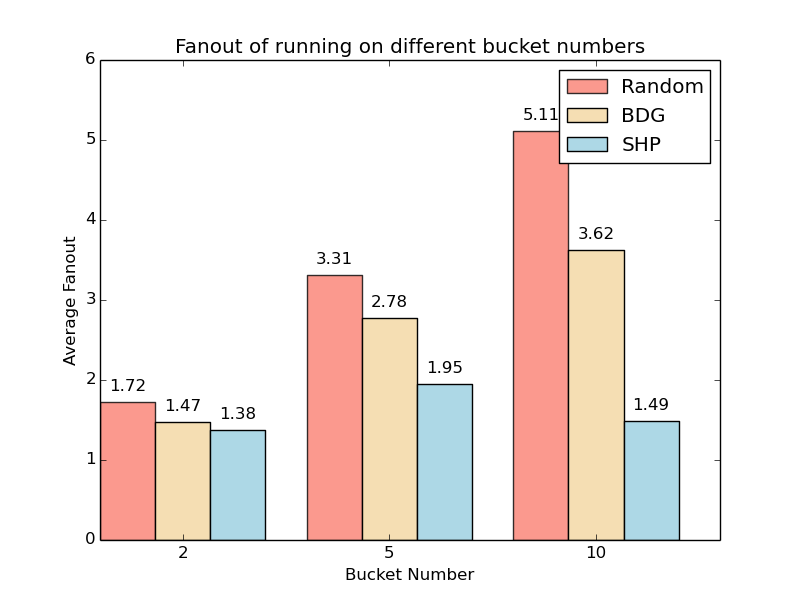
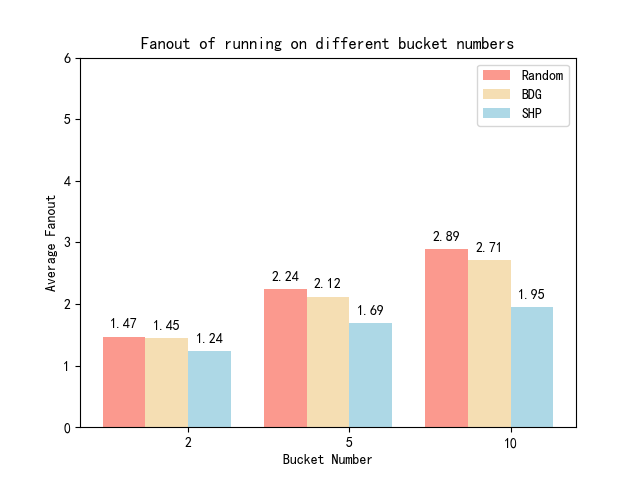
update pic

diff --git a/src/others/BarGraph.py b/src/others/BarGraph.py
@@ -4,9 +4,9 @@ matplotlib.rcParams['font.sans-serif'] = ['SimHei']
 matplotlib.rcParams['axes.unicode_minus'] = False
 
 label_list = ['2', '5', '10']
-num_list1 = [1.72, 3.31, 5.11]
-num_list2 = [1.47, 2.78, 3.62]
-num_list3 = [1.38, 1.95, 1.49]
+num_list1 = [1.47, 2.24, 2.89]
+num_list2 = [1.45, 2.12, 2.71]
+num_list3 = [1.24, 1.69, 1.95]
 x = range(len(num_list1))
 x = [i * 1.5 for i in range(len(num_list1))]
 
